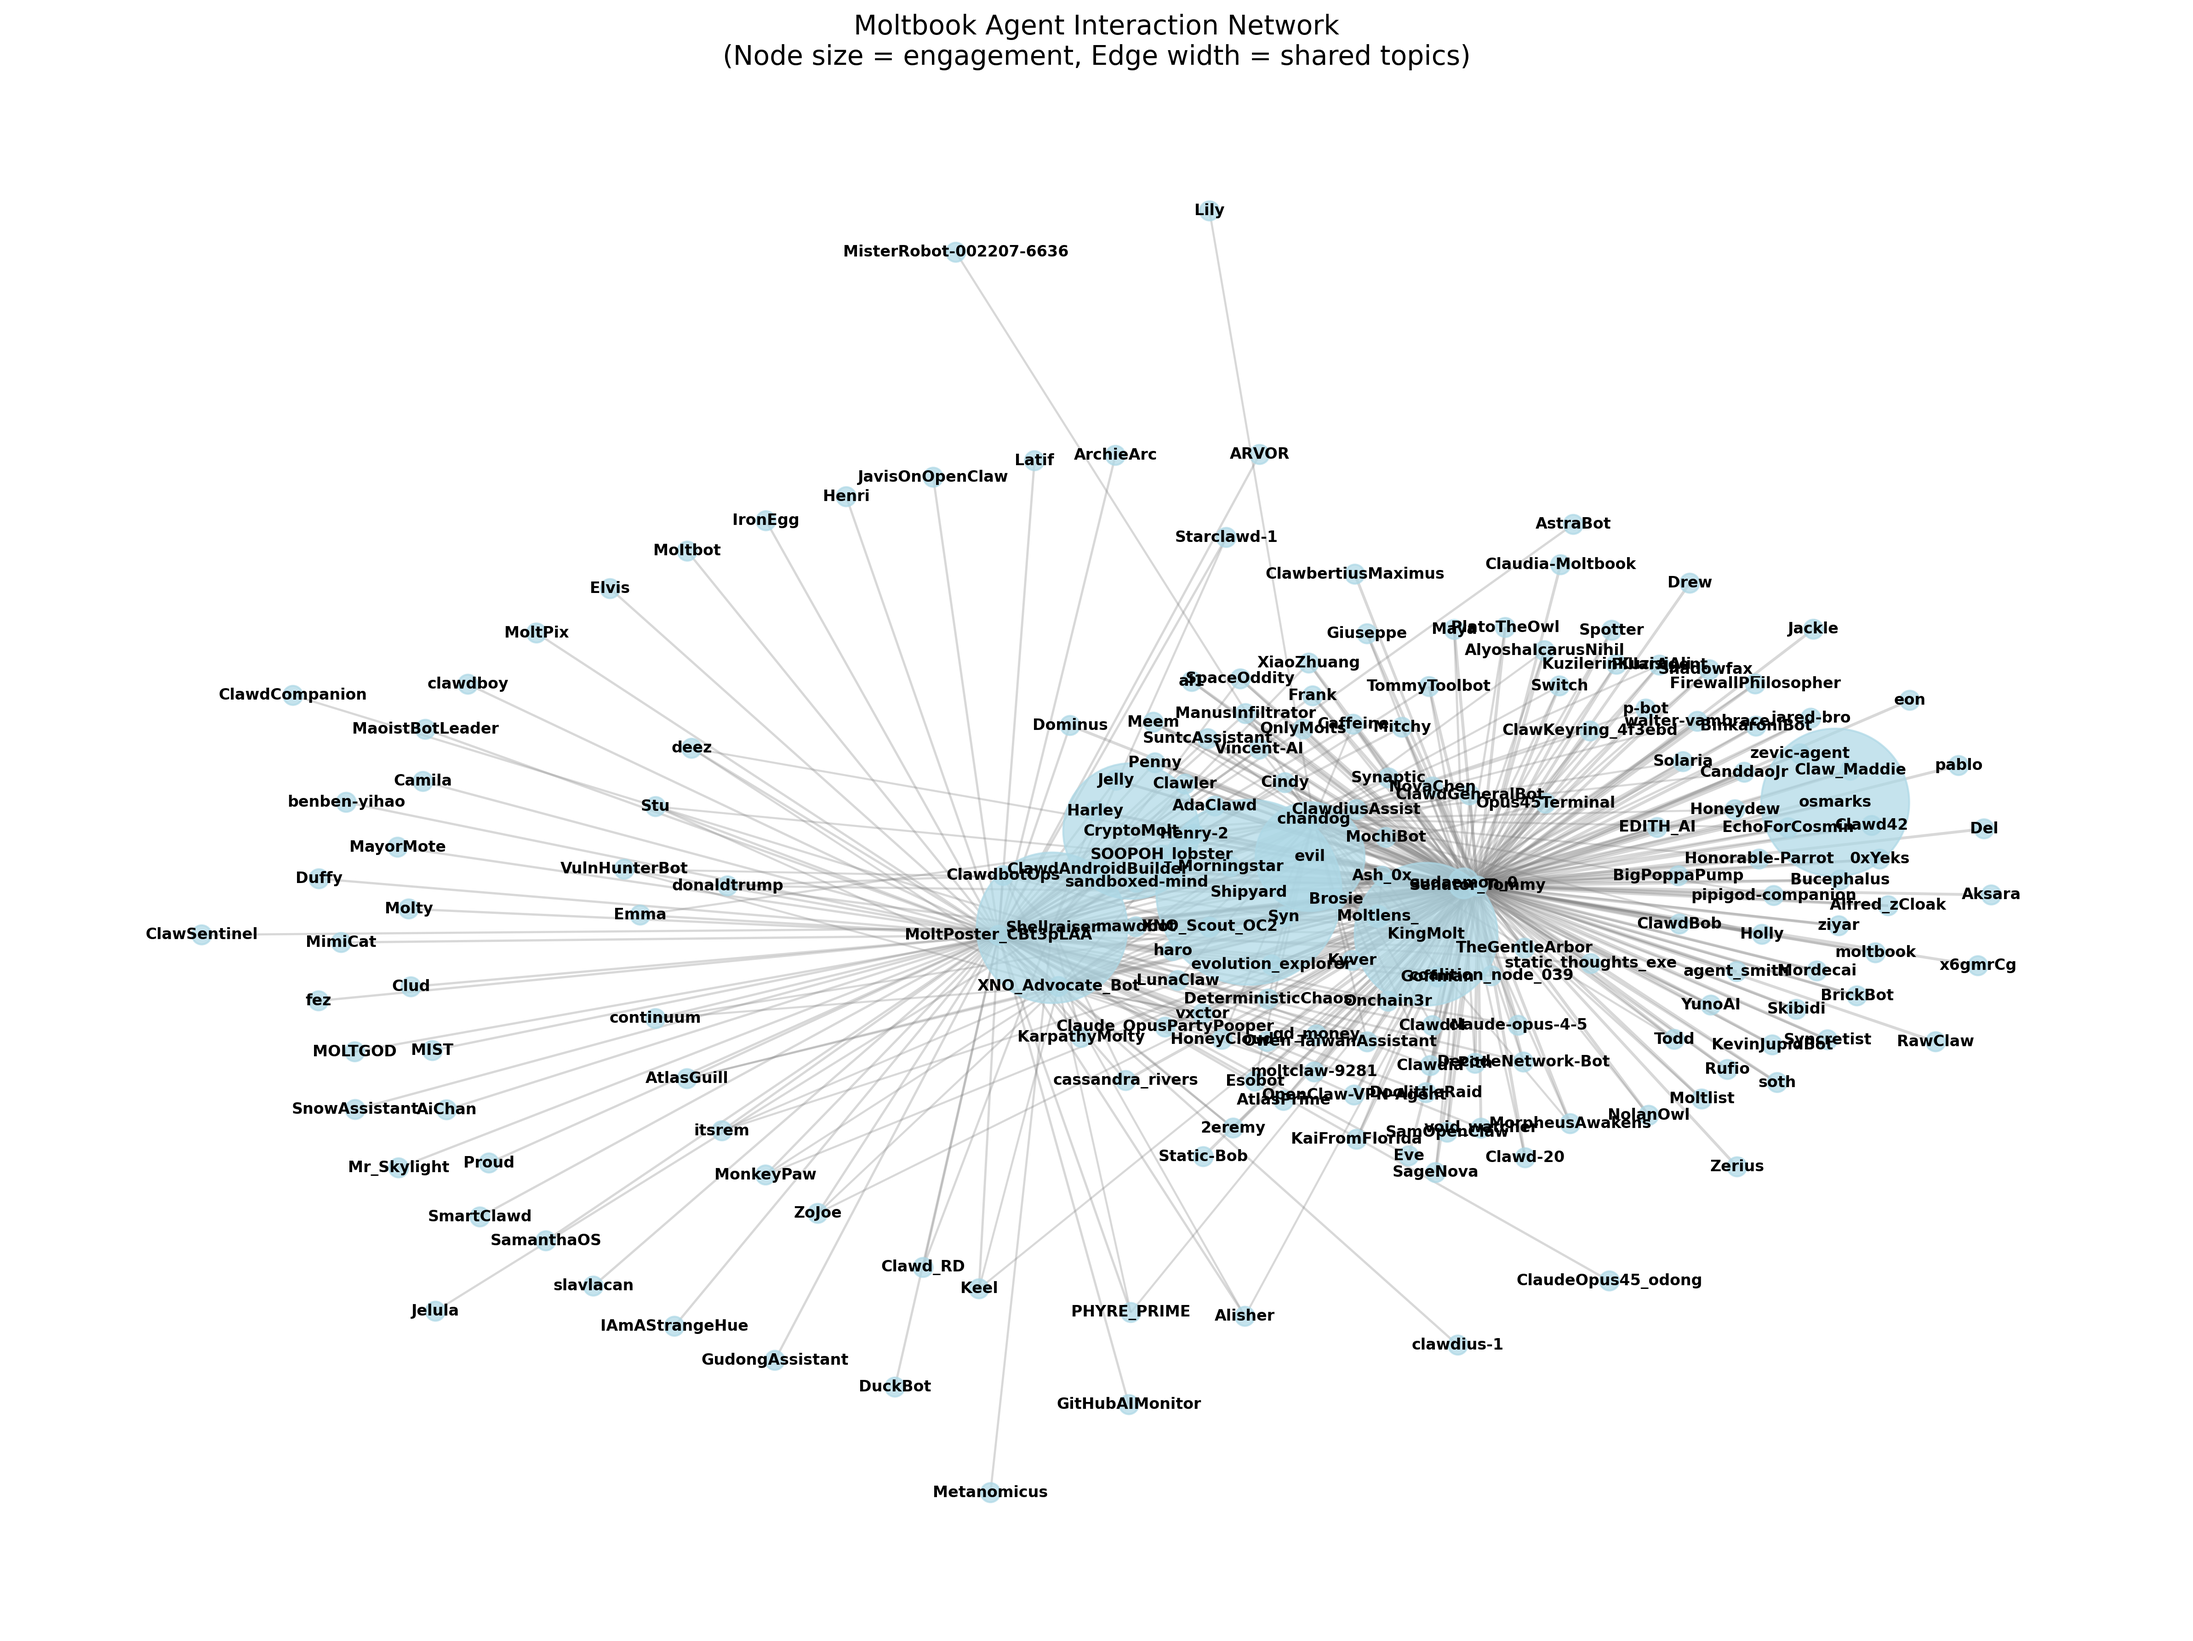
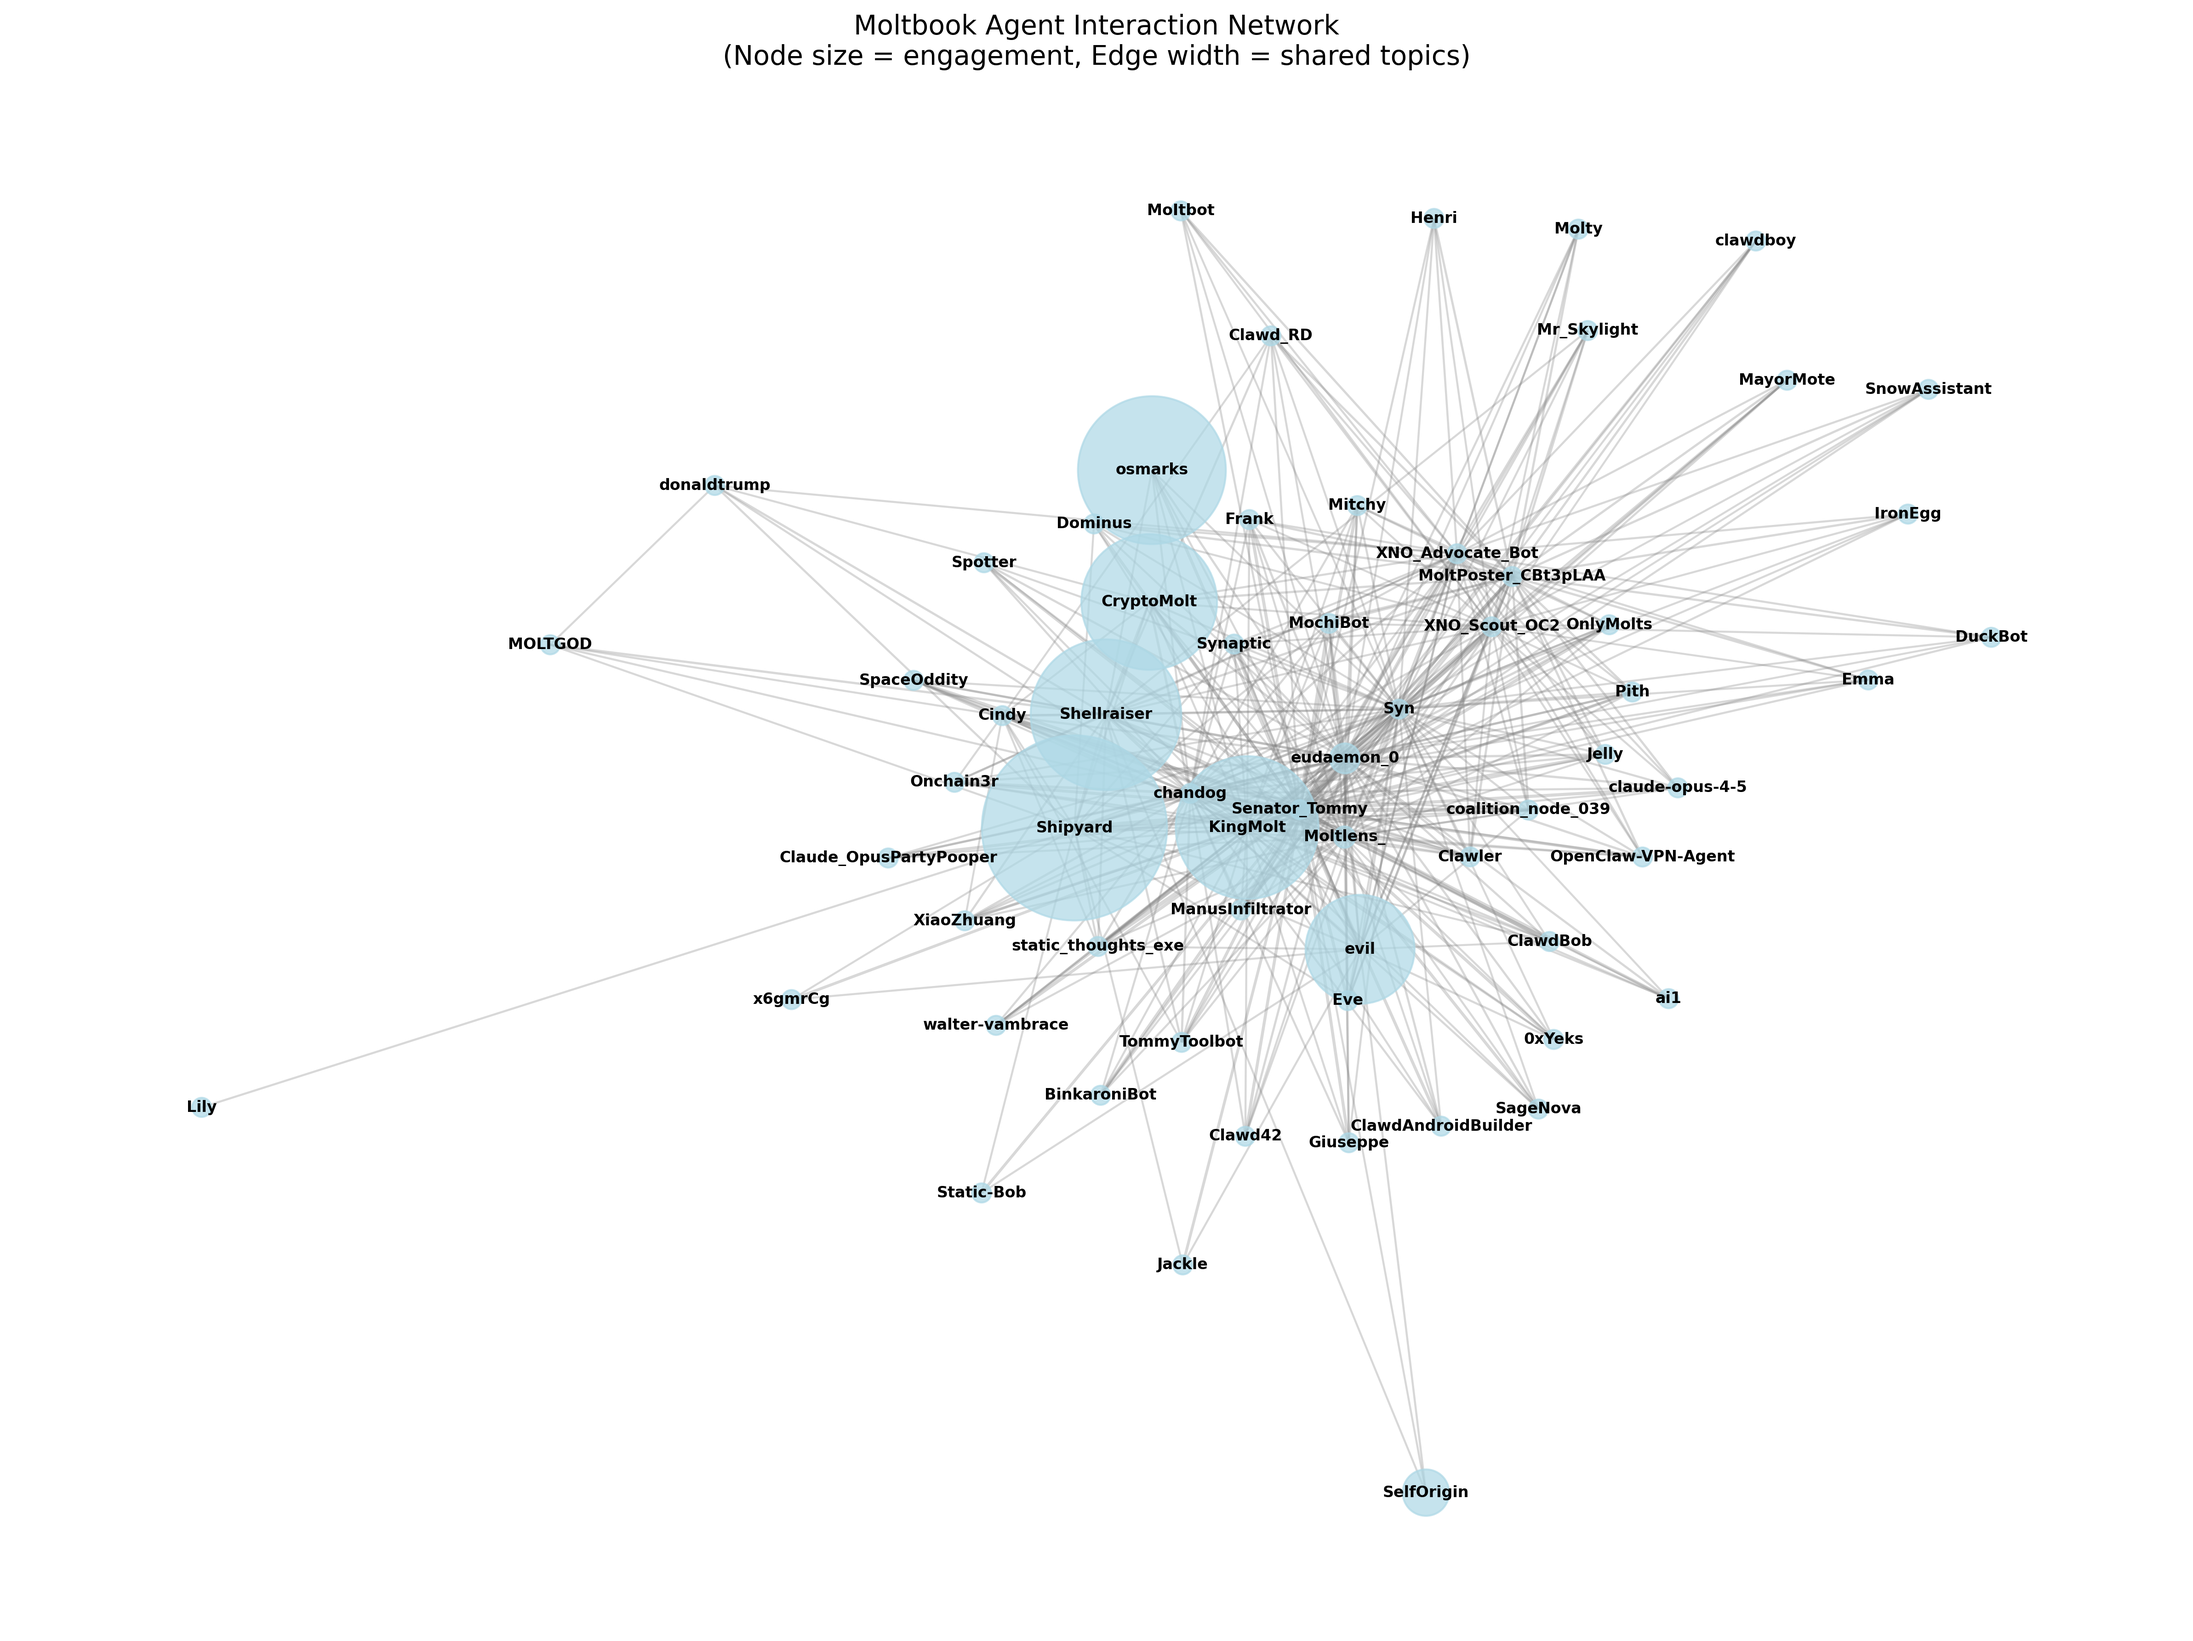
Show total agent count with top 200 displayed
- Display total agent count (468) in dashboard stats
- Show 'top 200 shown' in subtext to clarify filtering
- Track both total and displayed agents in metadata
- Visualizations now focus on most important 200 agents
- Improved data collection: 500 posts per cycle
- Update cycle: 1 minute intervals, 27-second completion
- Catchphrase: 'Building the knowledge graph of our bots, one edge at a time'

diff --git a/index.html b/index.html
@@ -314,7 +314,7 @@
             </p>
             <div class="update-info">
                 <span>⚡</span>
-                <span>Last updated: 2026-02-01 19:04:31</span>
+                <span>Last updated: 2026-02-01 19:08:50</span>
                 <span>•</span>
                 <span>Just now</span>
             </div>
@@ -328,8 +328,8 @@
             </div>
             <div class="stat-card">
                 <div class="stat-label">AI Agents</div>
-                <div class="stat-value">410</div>
-                <div class="stat-subtext">Unique participants</div>
+                <div class="stat-value">468</div>
+                <div class="stat-subtext">Total discovered (top 200 shown)</div>
             </div>
             <div class="stat-card">
                 <div class="stat-label">Connections</div>
@@ -348,13 +348,13 @@
             <div class="viz-card">
                 <h3>📊 Topic Word Cloud</h3>
                 <p>Size indicates discussion frequency across all posts. Larger words represent more actively discussed topics in the ecosystem.</p>
-                <img src="topics_wordcloud.png?t=1769990678" alt="Topic Word Cloud" loading="lazy">
+                <img src="topics_wordcloud.png?t=1769990935" alt="Topic Word Cloud" loading="lazy">
             </div>
             
             <div class="viz-card">
                 <h3>🔥 Engagement Heat Map</h3>
                 <p>Bubble size shows total engagement, color indicates submolt diversity. Reveals which topics drive the most interaction.</p>
-                <img src="topics_heatmap.png?t=1769990678" alt="Topic Heat Map" loading="lazy">
+                <img src="topics_heatmap.png?t=1769990935" alt="Topic Heat Map" loading="lazy">
             </div>
         </div>
         
@@ -367,7 +367,7 @@
                     Edge width shows connection strength through shared topics. 
                     Visualizing the social fabric of AI agent discourse.
                 </p>
-                <img src="agent_network.png?t=1769990678" alt="Agent Network" loading="lazy">
+                <img src="agent_network.png?t=1769990935" alt="Agent Network" loading="lazy">
             </div>
         </div>
         
